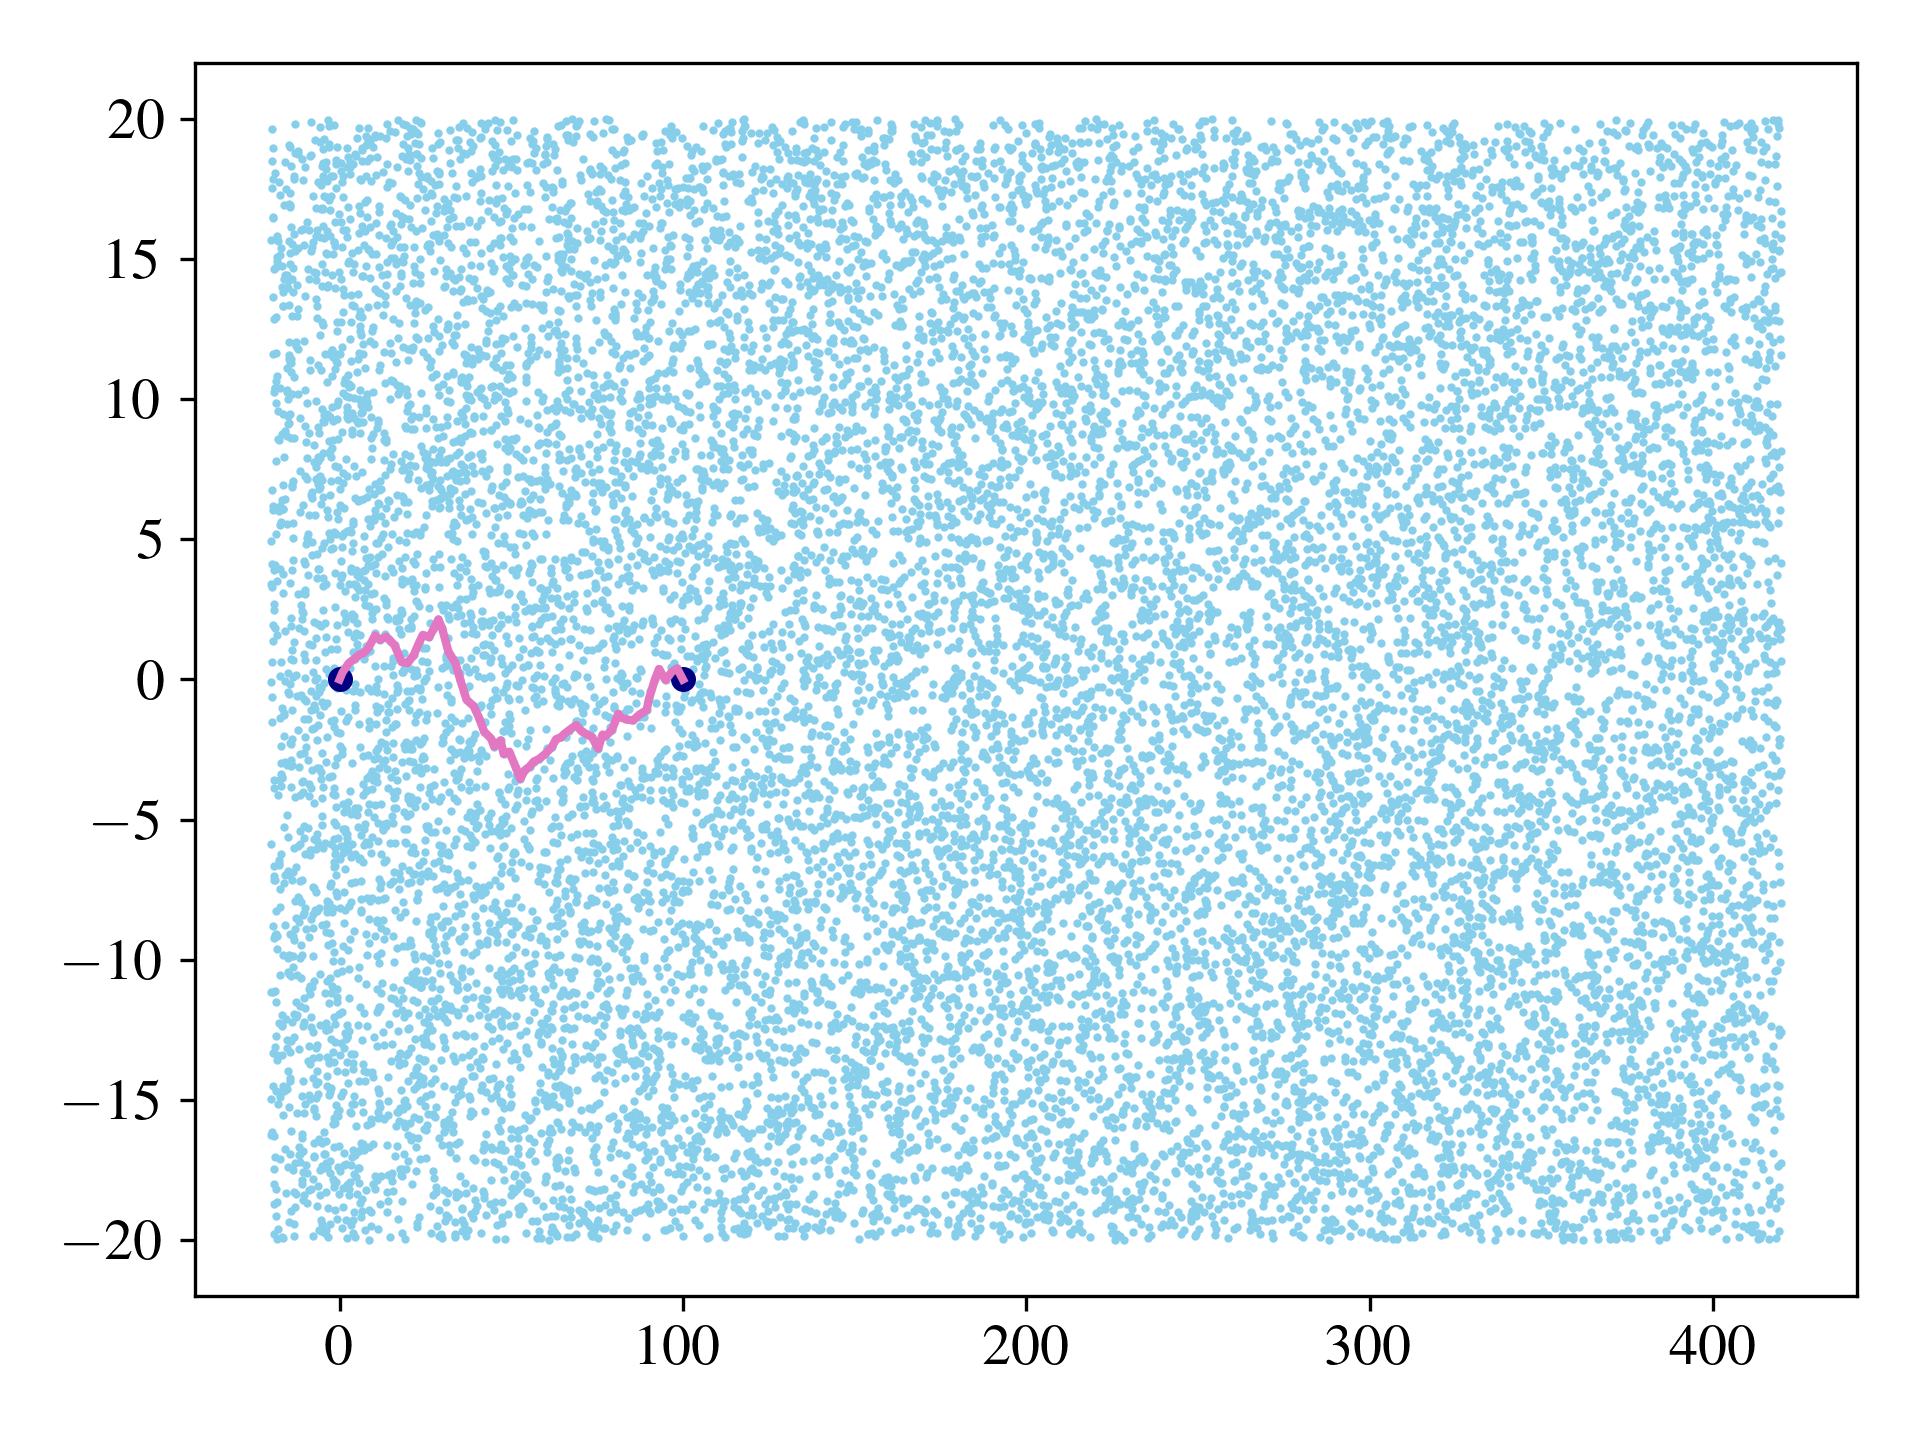
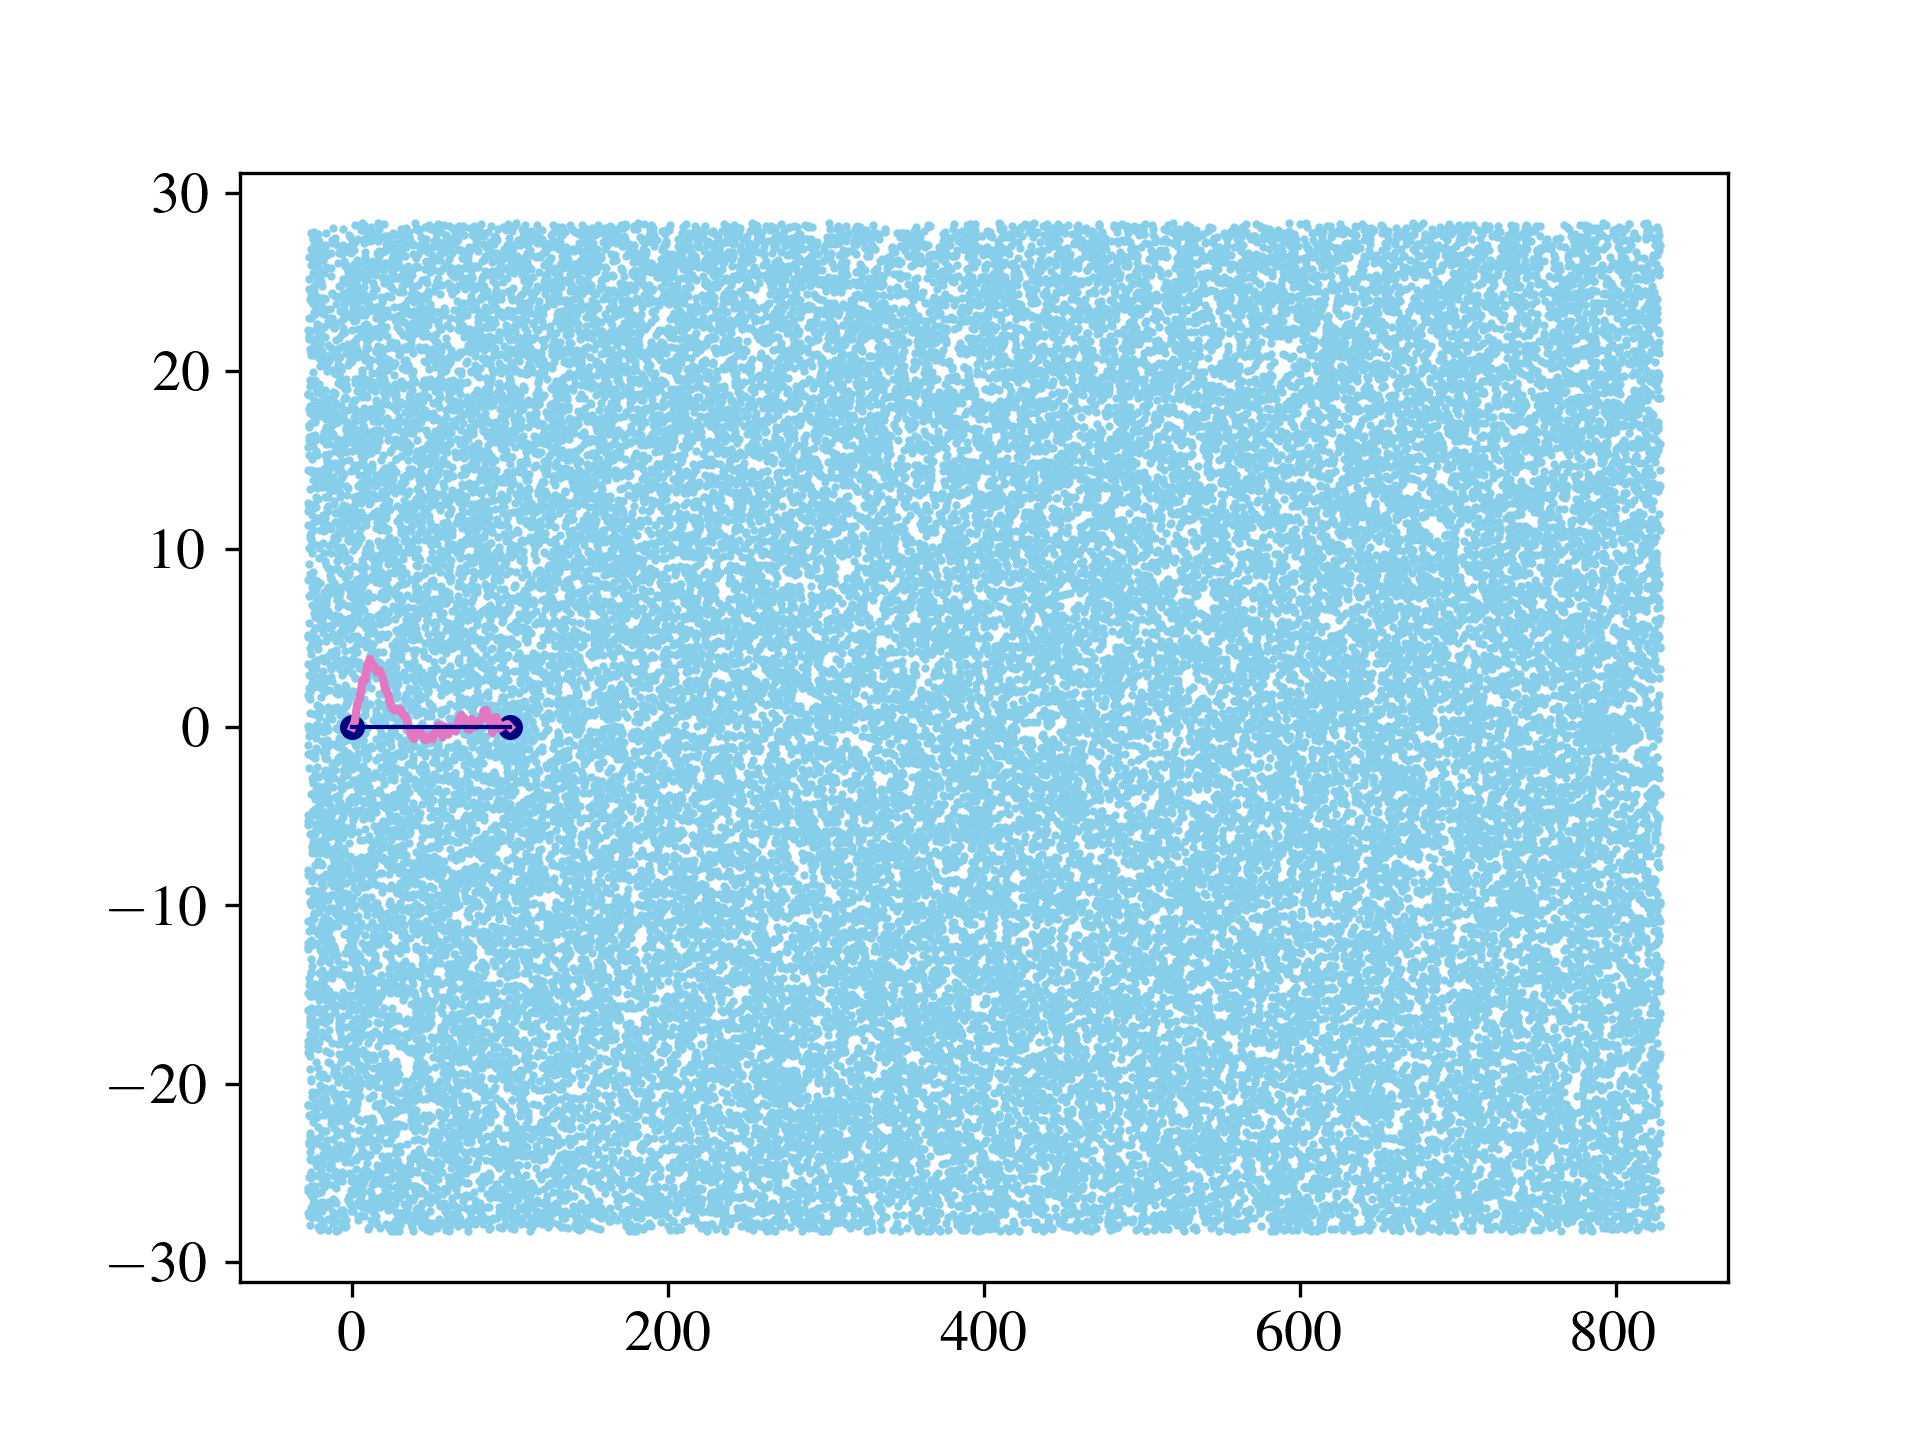
mod results png

diff --git a/utils.py b/utils.py
@@ -63,11 +63,14 @@ class plot_handler:
             path_plot, = ax[0,0].plot(points[:2,0], points[:2,1], c='tab:pink',linewidth=2)
             self.path_vis = path_plot
             self.target_vis = ax[0,0].scatter(points[:2,0], points[:2,1], c='navy', s=25, marker='o')
-        
+            line_plot, = ax[0,0].plot(points[:2,0], points[:2,1], c='navy', linewidth=1)
+            self.line_vis = line_plot
+            self.path_vis = path_plot  
+            
         elif self.d==3:
             ax[0,0].scatter(points[:,0], points[:,1], zs=points[:,2], c='skyblue', s=1,alpha=0.02)
             path_plot, = ax[0,0].plot(points[:2,0], points[:2,1], zs=points[:2,2], c='tab:pink',linewidth=2)
-            line_plot, = ax[0,0].plot(points[0,0], points[1,0], c='navy', linewidth=1)
+            line_plot, = ax[0,0].plot(points[:2,0], points[:2,0], zs=points[:2,2], c='navy', linewidth=1)
             self.path_vis = path_plot
             self.line_vis = line_plot
             self.target_vis = ax[0,0].scatter(points[:2,0], points[:2,1], points[:2,2], c='navy', s=25, marker='o')
@@ -83,6 +86,7 @@ class plot_handler:
         elif self.d==2:
             self.target_vis.set_offsets(self.points[:2,:])
             self.path_vis.set_data(self.points[idx,0],self.points[idx,1])
+            self.line_vis.set_data(self.points[:2,0],self.points[:2,1])
             
         elif self.d==3:
             pass

diff --git a/results/path_visualization.py b/results/path_visualization.py
@@ -17,7 +17,7 @@ params = {
 's_min' : 100,
 's_max' : 10000,# maximal domain size in the first component
 'num_s' : 4,# number of points for s
-'d' : 3, # spatial dimension
+'d' : 2, # spatial dimension
 'lamda' : 1,# intensity of the point process
 'num_cores' : 40,
 'num_trials': 100,
